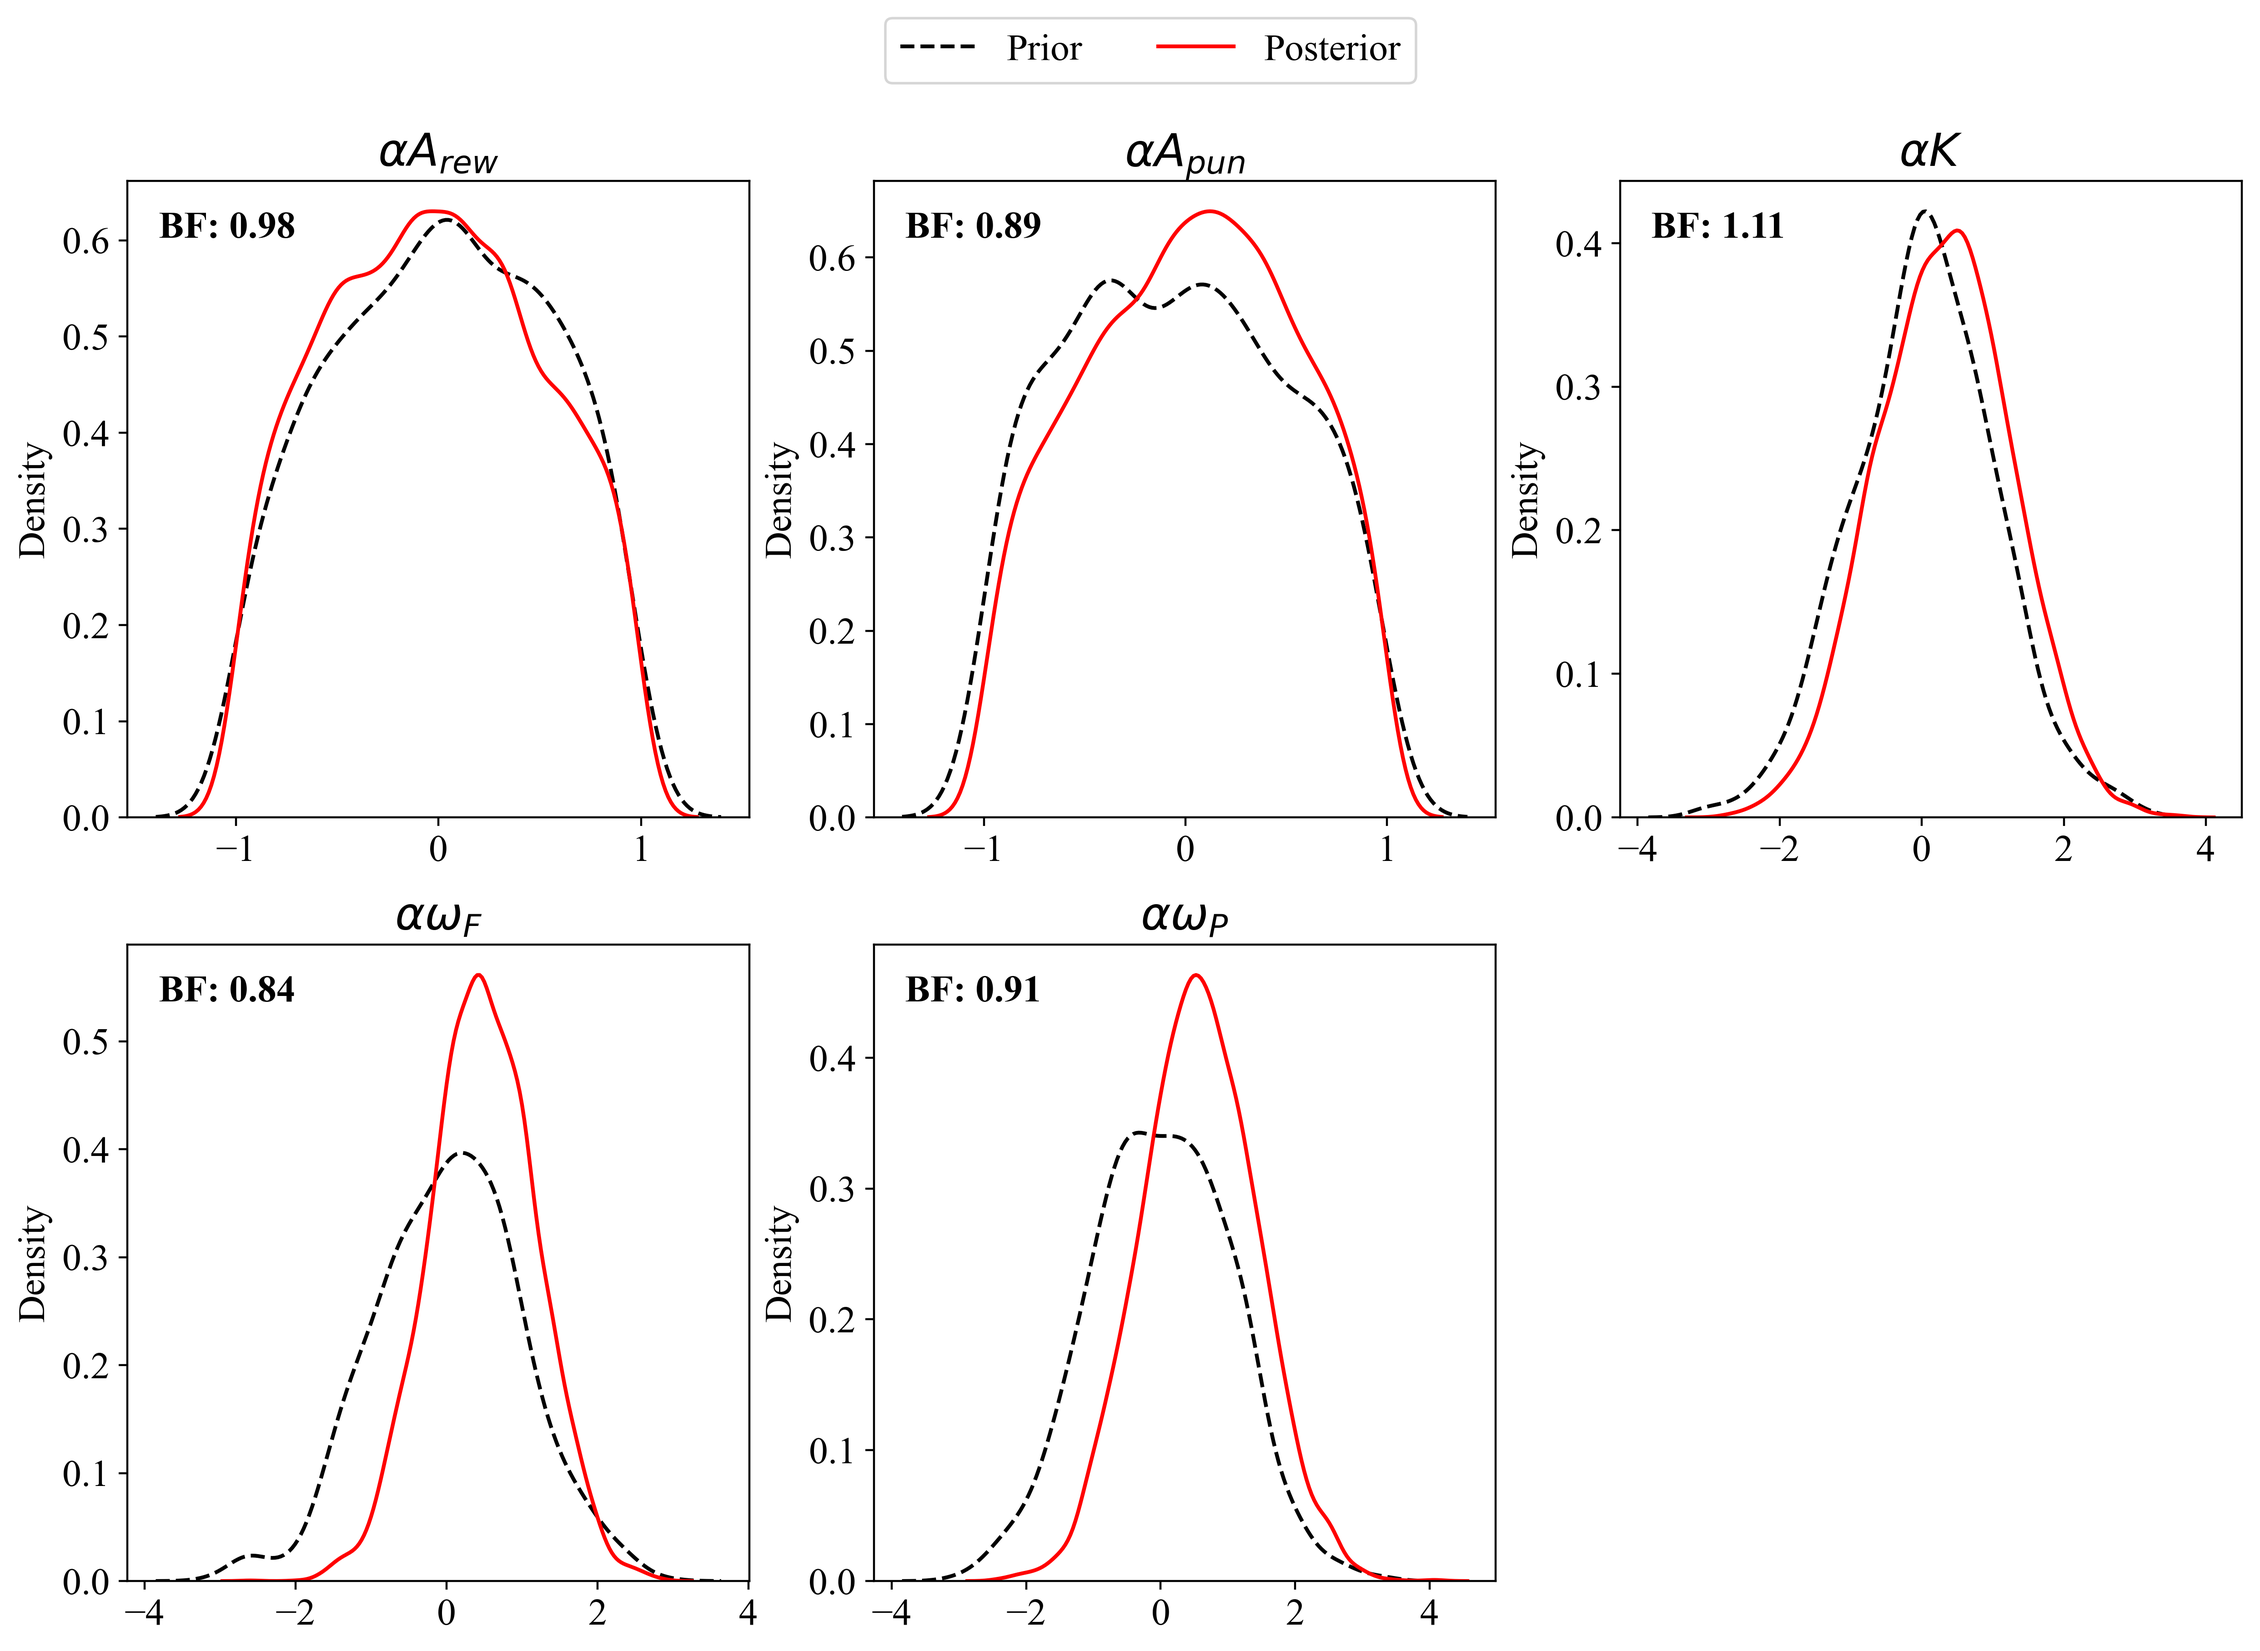
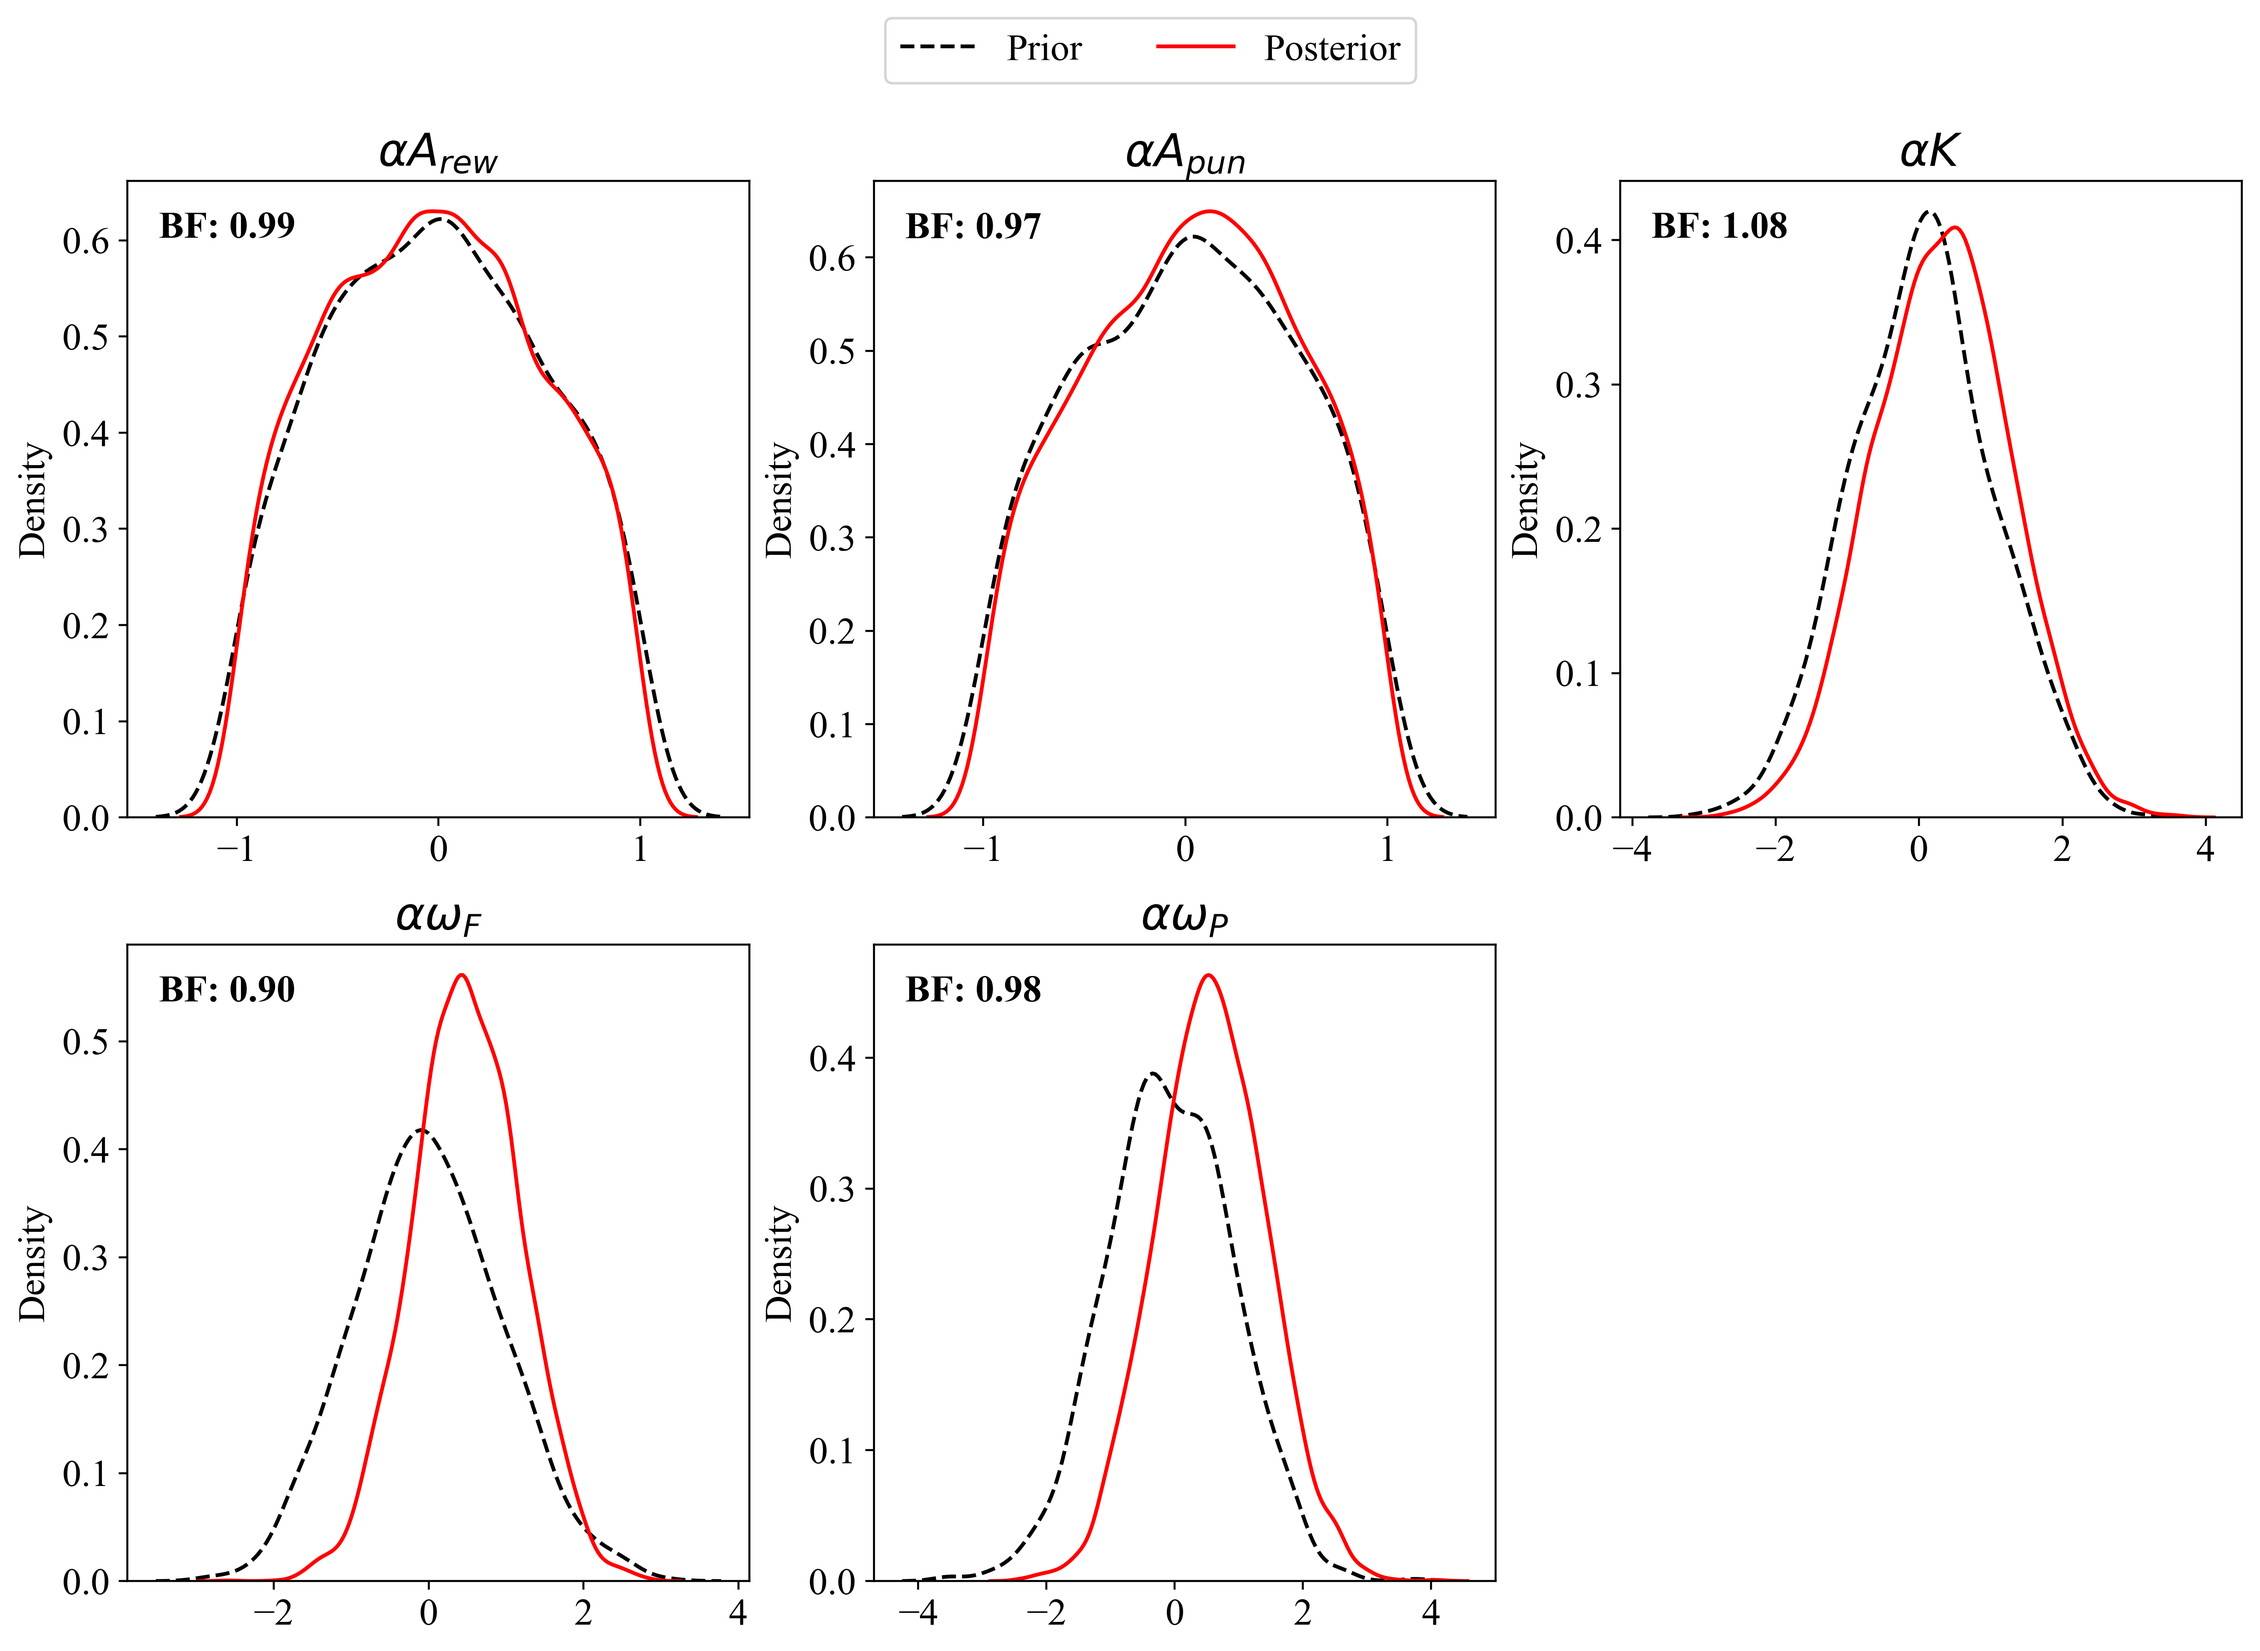
fixed seed

diff --git a/src/comparison/plot_comparison.py b/src/comparison/plot_comparison.py
@@ -20,7 +20,7 @@ def set_font():
         # set font size to 13
         plt.rcParams.update({'font.size': 15})
 
-def sample_truncated_normal(mean, sd, lower, upper, size=1000):
+def sample_truncated_normal(mean, sd, lower, upper, size=10000):
     a, b = (lower - mean) / sd, (upper - mean) / sd
     return truncnorm.rvs(a, b, loc=mean, scale=sd, size=size)
 
@@ -152,6 +152,9 @@ def main():
     # define paths
     path = pathlib.Path(__file__)
     data_path = path.parents[2] / "src" / "comparison" / "results"
+
+    # set numpy seed
+    np.random.seed(2503)
 
     # load data
     orl_comparison_data = pd.read_csv(data_path / "alpha_params_comparison.csv")
